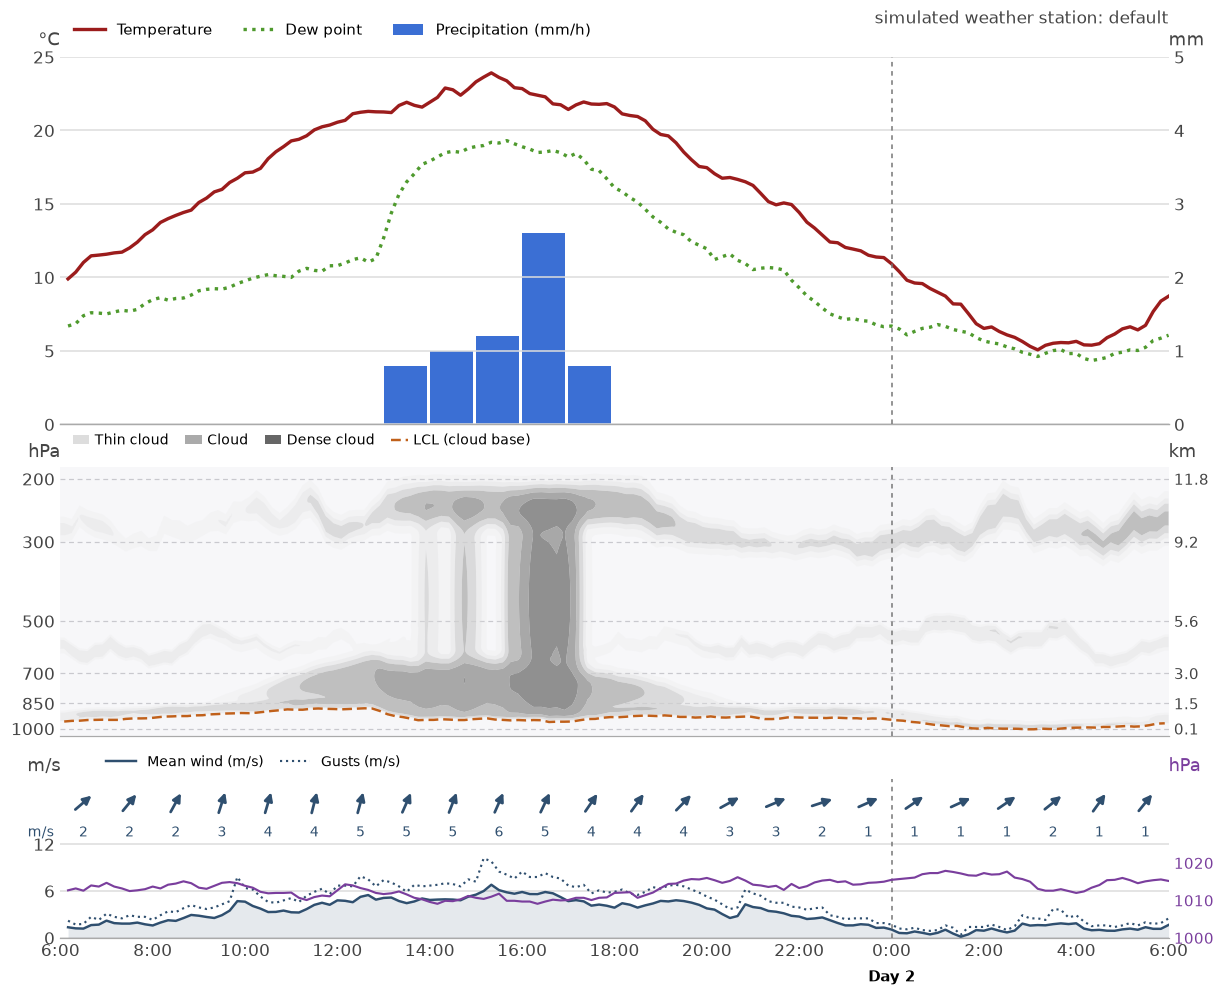
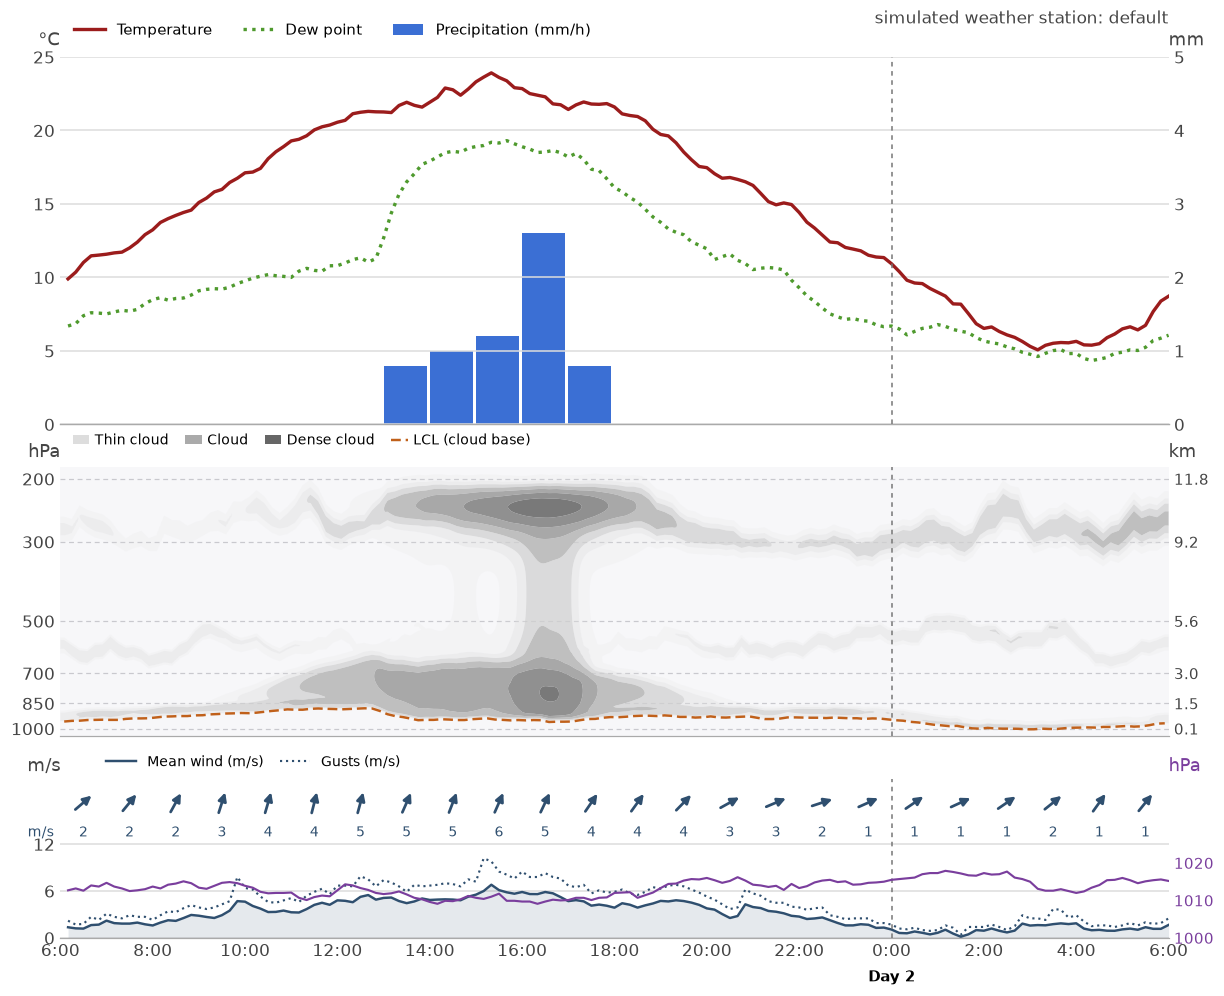
Spread storm anvils and bases around concentrated convective cores
Replace the uniform full-height cumulonimbus profile with a height-dependent core, upper anvil and lower skirt. Concentrate the core around stronger convection and spread the anvil farther in time; stronger recorded gusts widen severe-storm anvils and bases, with tornado records selecting the strongest profile. Split spreading at missing-data gaps.

Document the storm contours as time-height schematics while preserving logged measurements and rainfall. Regenerate all seven scenario charts and refresh changed storm images and the featured thunderstorm chart.

Validation: all five QEMU plotting/import tests pass, including maximum-speed recording. Check that anvils exceed core widths, severe lower skirts exceed ordinary widths, clear fields stay clear and spreading cannot cross missing intervals. All seven charts render from 144-record firmware datasets.

Changed region(s): [[0.3105, 0.4669, 0.5278, 0.6847]]

diff --git a/tools/weather_tool.py b/tools/weather_tool.py
@@ -277,11 +277,51 @@ def cloud_colours(thickness):
     return rgba
 
 
-def cloud_density(readings, rows=300):
-    """Interpolate measured layer amounts/heights for a smooth display field.
+def storm_cloud_profile(times, centers, levels, readings, base, top):
+    """Schematic convective cores, spreading anvils, and storm-base skirts.
 
-    Interpolation stays between adjacent records. Missing record intervals are
-    masked rather than inventing clouds across a gap in the imported data.
+    Widths are display cues on the time axis. Recorded gust strength widens
+    severe-storm anvils and the low skirt; gaps split independent segments.
+    """
+    import numpy as np
+
+    amount = np.clip([(r.get("cumulonimbus") or 0.0) / 100 for r in readings], 0, 1)
+    if not amount.any():
+        return np.zeros((len(levels), len(times)))
+    peak_gust = max((r.get("wind_gust") or r.get("wind_speed") or 0.0) for r in readings)
+    severe = min(max((peak_gust - 30.0) / 35.0, 0.0), 1.0)
+    if any(r.get("tornado") for r in readings):
+        severe = 1.0
+    width = RECORD_MINUTES / 1440
+    splits = np.r_[0, np.flatnonzero(np.diff(centers) > width * 1.5) + 1, len(centers)]
+
+    def spread(signal, minutes):
+        result = np.zeros(len(times))
+        for start, end in zip(splits, splits[1:]):
+            inside = (times >= centers[start] - width / 2) & (times <= centers[end - 1] + width / 2)
+            distance = (times[inside, None] - centers[None, start:end]) / (minutes / 1440)
+            weights = np.exp(-0.5 * distance ** 2)
+            result[inside] = weights @ signal[start:end] / weights.sum(axis=1)
+        return result[None, :]
+
+    core = spread(amount ** 2.2, 10 + 8 * severe)
+    anvil = np.clip(1.8 * spread(amount, 50 + 70 * severe), 0, 1)
+    skirt = np.clip(1.25 * spread(amount, 15 + 40 * severe), 0, 1)
+    depth = base - top
+    safe_depth = np.where(depth > 0, depth, 1.0)
+    height = (base - levels[:, None]) / safe_depth
+    envelope = smoothstep(height / 0.035) * smoothstep((1 - height) / 0.12)
+    anvil_weight = np.exp(-((height - 0.90) / 0.14) ** 2)
+    skirt_weight = (0.65 + 0.25 * severe) * np.exp(-((height - 0.10) / 0.17) ** 2)
+    body_weight = (1 - anvil_weight) * (1 - skirt_weight)
+    return envelope * (body_weight * core + anvil_weight * anvil + skirt_weight * skirt) * (depth > 0)
+
+
+def cloud_density(readings, rows=300):
+    """Build a display field from recorded layers and schematic storm profiles.
+
+    Layer amounts/heights interpolate between adjacent records; convective
+    cores spread into anvils and low skirts. Missing intervals stay masked.
     """
     import matplotlib.dates as mdates
     import numpy as np
@@ -303,6 +343,9 @@ def cloud_density(readings, rows=300):
                             for r in readings])
         top = interpolate([math.log(r.get(top_key) or top_fixed) if top_key else math.log(top_fixed)
                            for r in readings])
+        if key == "cumulonimbus":
+            thickness += density * storm_cloud_profile(times, centers, levels, readings, base, top)
+            continue
         depth = base - top
         valid = depth > 0
         safe_depth = np.where(valid, depth, 1.0)
@@ -328,7 +371,7 @@ def cloud_density(readings, rows=300):
 def draw_cloud_panel(ax, readings):
     """Windy-style grayscale cloud contours on a log-pressure height axis.
 
-    Cloud amounts and layer boundaries are interpolated only for rendering;
+    Layer interpolation and anvil/core/skirt shapes are rendering schematics;
     measurements, rain totals, and the simulated weather remain unchanged.
     """
     import matplotlib.dates as mdates

diff --git a/README.md b/README.md
@@ -253,7 +253,12 @@ matplotlib, in the style of the [FMI forecast chart](https://www.ilmatieteenlait
   - stratus and stratocumulus are low layers resting on the cloud base
   - nimbostratus is a dark rain cloud from the cloud base into the middle deck
   - cumulus has a flat base on the LCL and a soft, billowing top
-  - cumulonimbus is a dark tower from the cloud base to the tropopause
+  - cumulonimbus has a narrower convective core and a spreading upper anvil;
+    stronger recorded gusts broaden the anvil and lower storm-base skirt
+
+  Storm shapes are schematic profiles on the time axis. They illustrate the
+  anvil/core structure and broader base of severe storms while preserving the
+  logged readings and rainfall totals.
 
   The LCL (cloud base) is a dashed line, and a tornado is a red funnel to the ground.
 - **Bottom panel:** wind. The solid line (with a light fill) is each 10-minute record's mean
